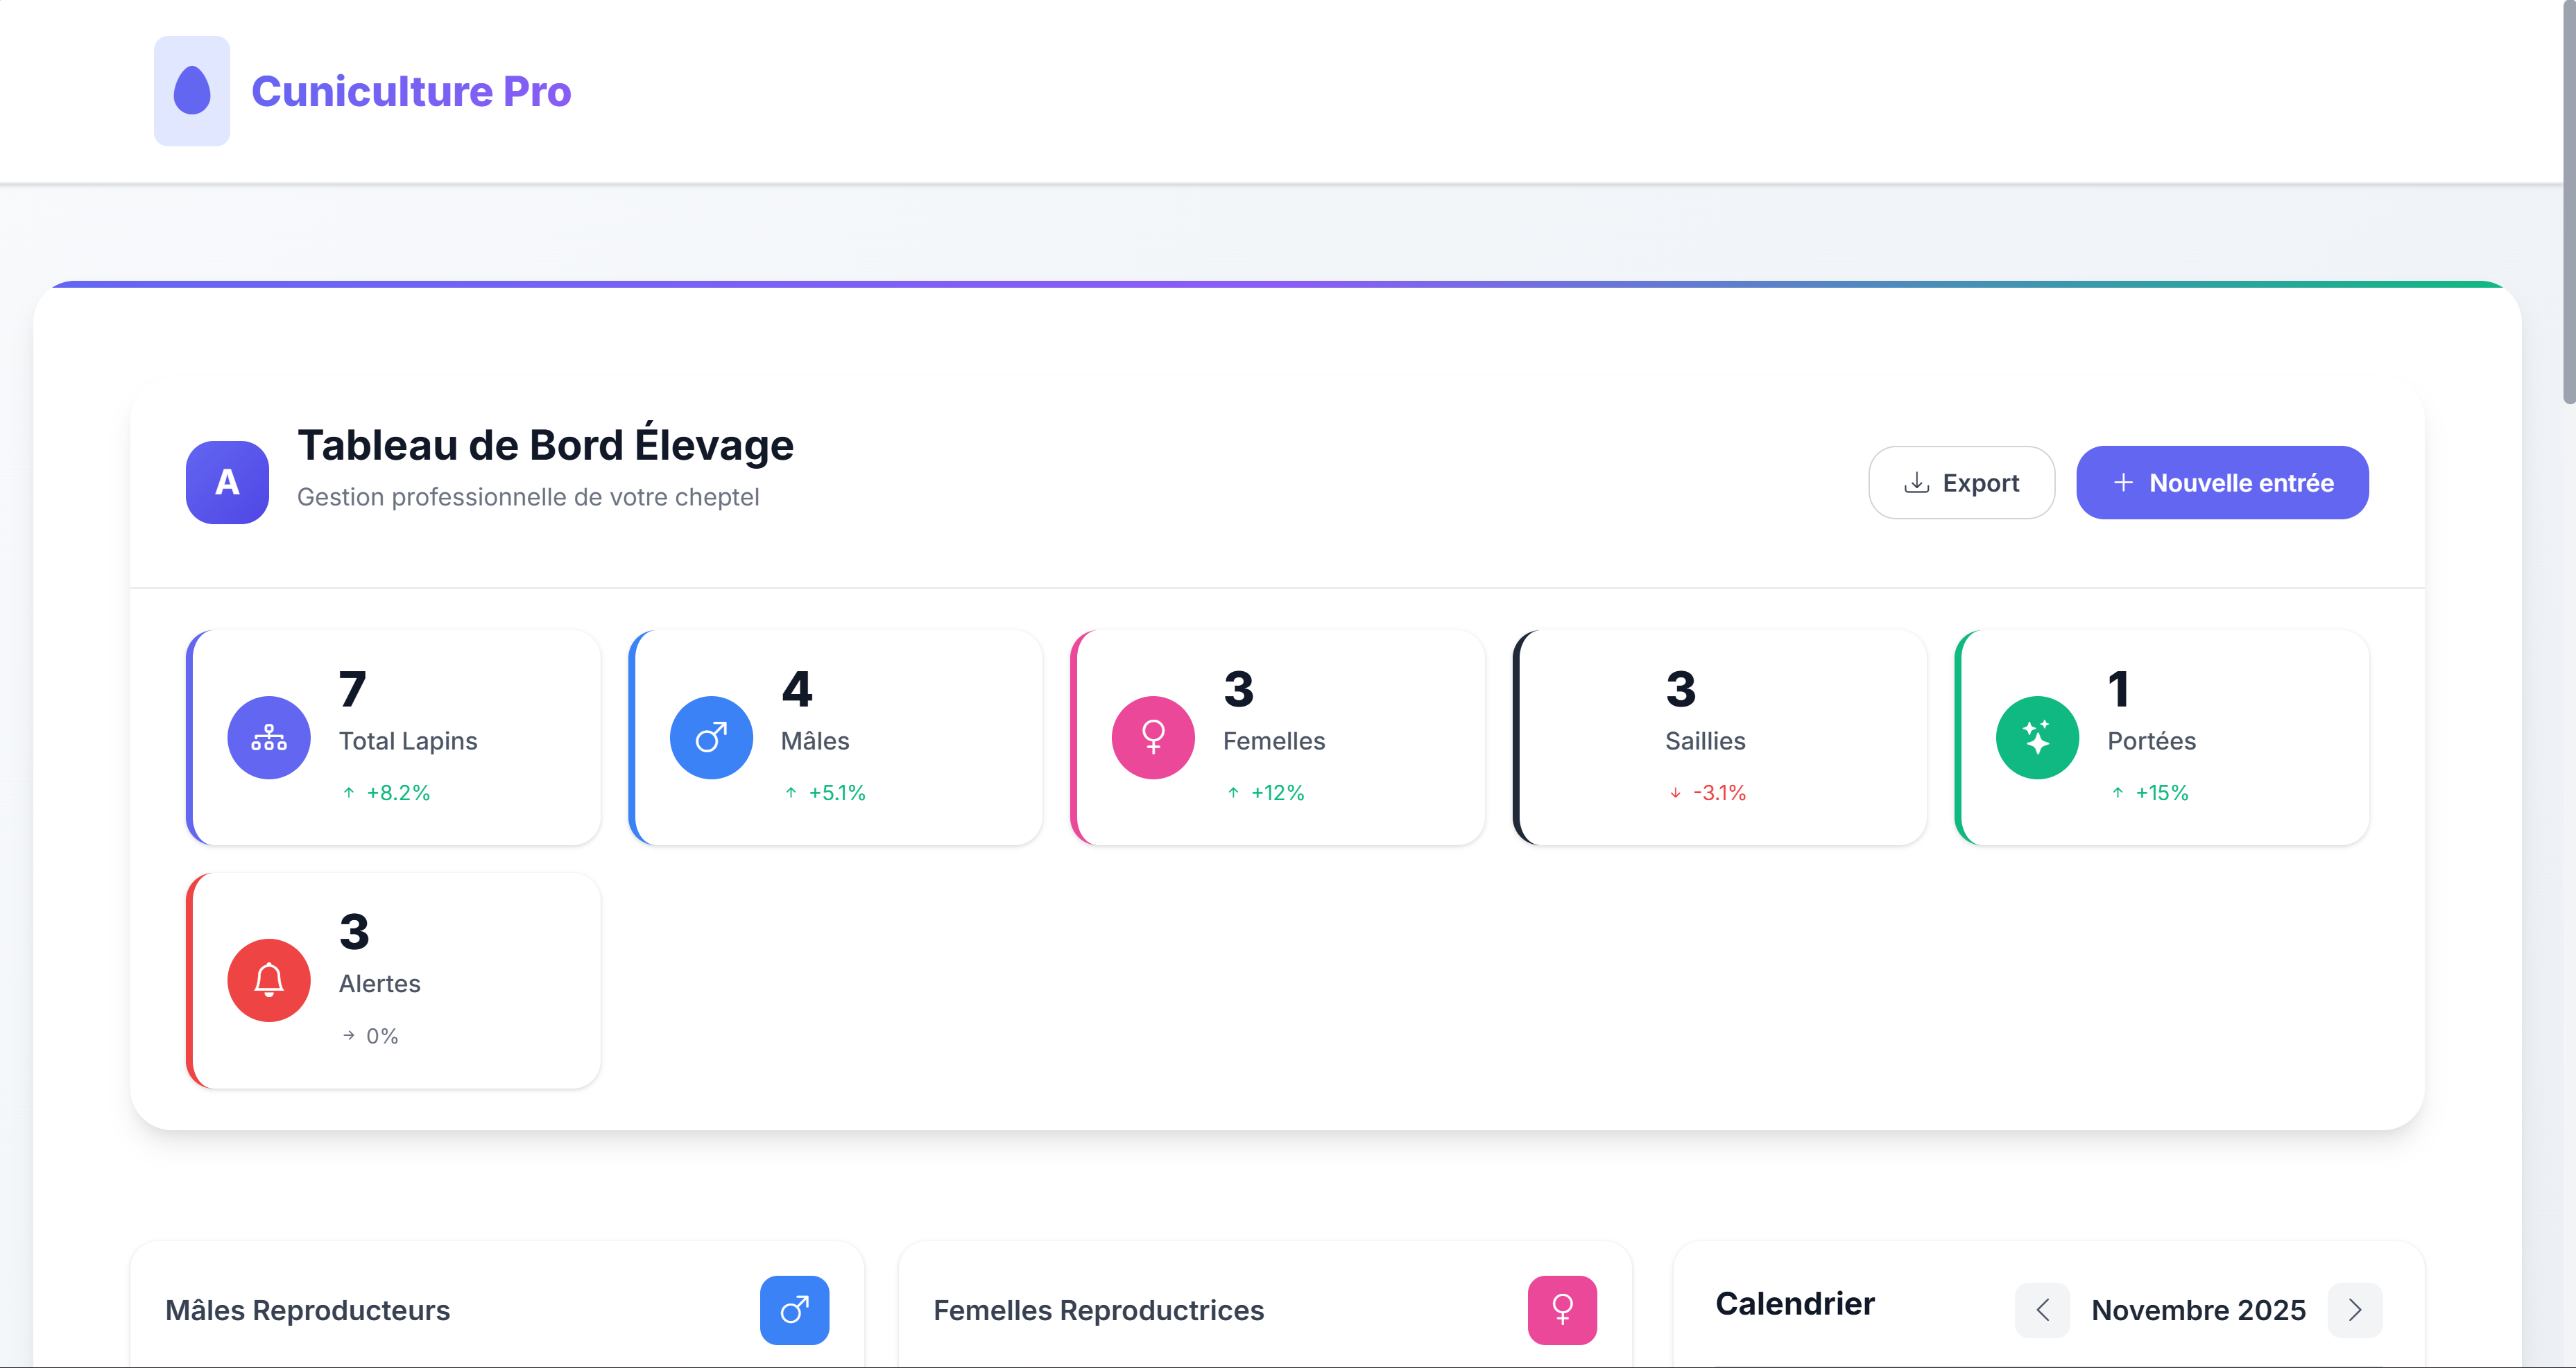
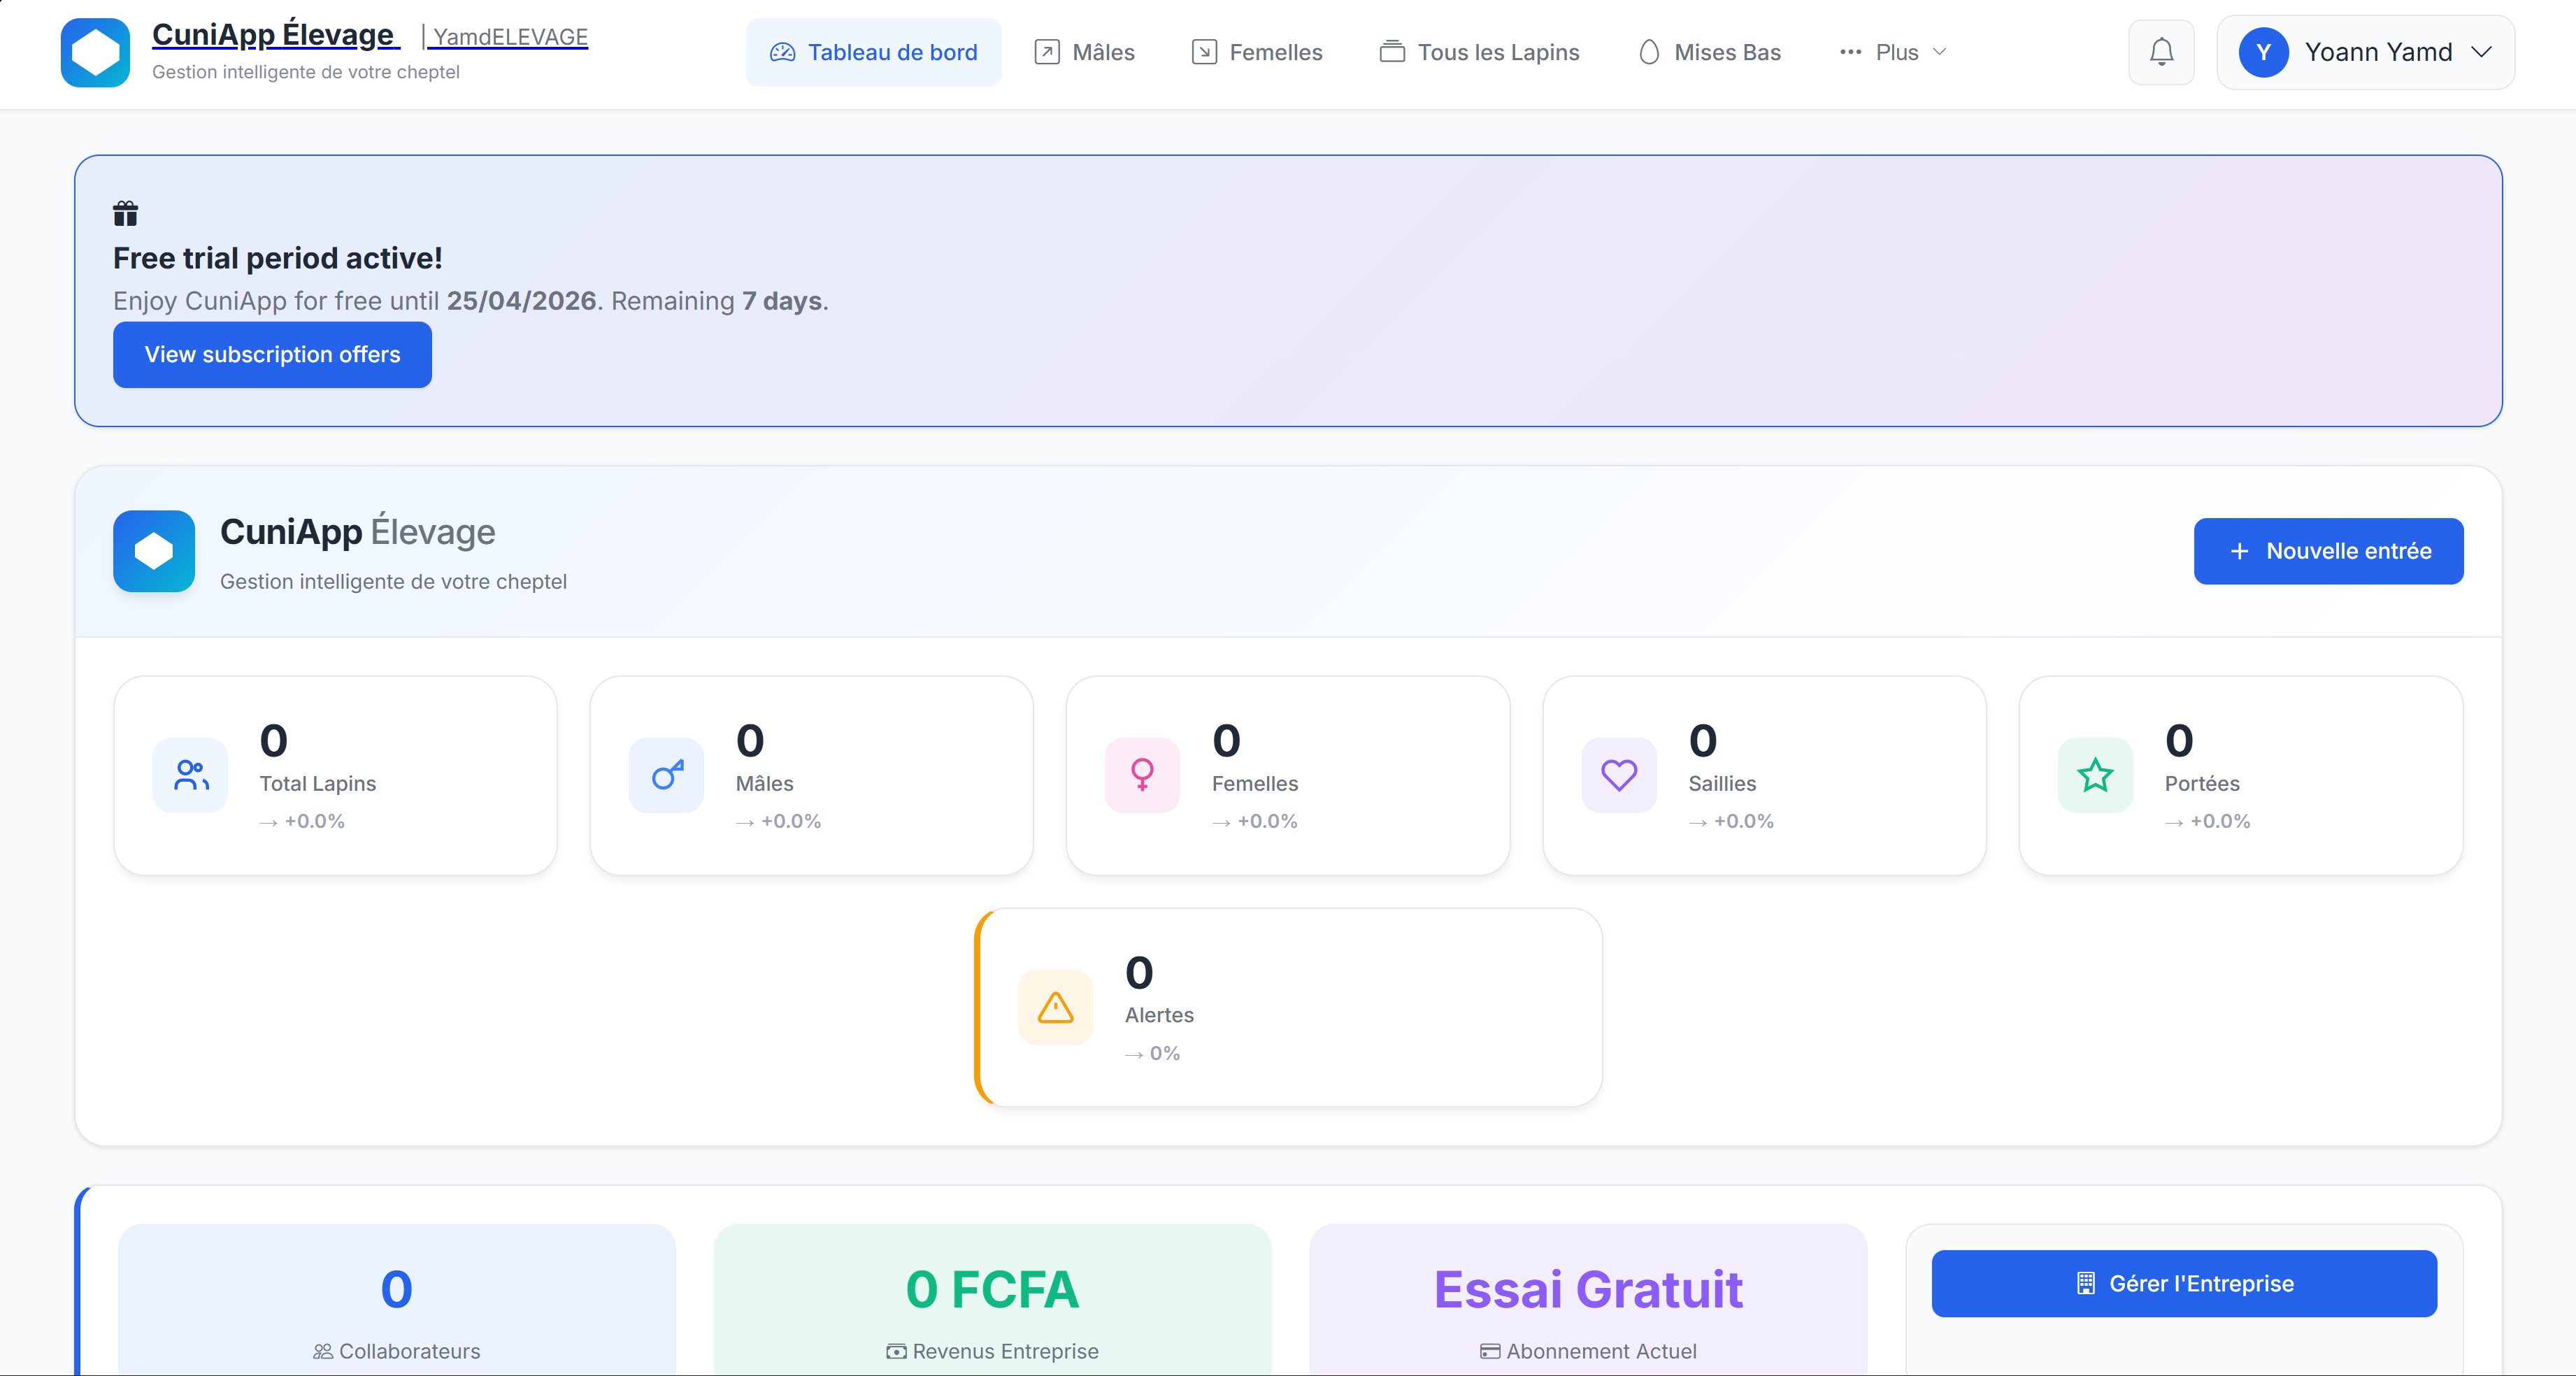
maj of my project

diff --git a/next.config.ts b/next.config.ts
@@ -8,4 +8,4 @@ const nextConfig = {
   trailingSlash: true,  // Ajoutez ceci si vous avez des problèmes de routes
 };
 
-module.exports = nextConfig;
+module.exports = nextConfig; 

diff --git a/src/i18n/translations.ts b/src/i18n/translations.ts
@@ -165,6 +165,7 @@ export const translations: { [key: string]: Translation } = {
             "Full hardware store management system with stock, sales, invoices, and admin interface.",
           tech: ["Laravel", "Billing", "Bootstrap", "MySQL"],
           link: "https://github.com/yamdev07/quincaillerieApp",
+          demo: "https://yamdev07.alwaysdata.net",
           featured: true,
         },
         wifizone: {
@@ -309,6 +310,7 @@ export const translations: { [key: string]: Translation } = {
             "Application complète de gestion de quincaillerie avec stock, ventes, factures et interface administrateur.",
           tech: ["Laravel", "Billing", "Bootstrap", "MySQL"],
           link: "https://github.com/yamdev07/quincaillerieApp",
+          demo: "https://yamdev07.alwaysdata.net",
           featured: true,
         },
         wifizone: {